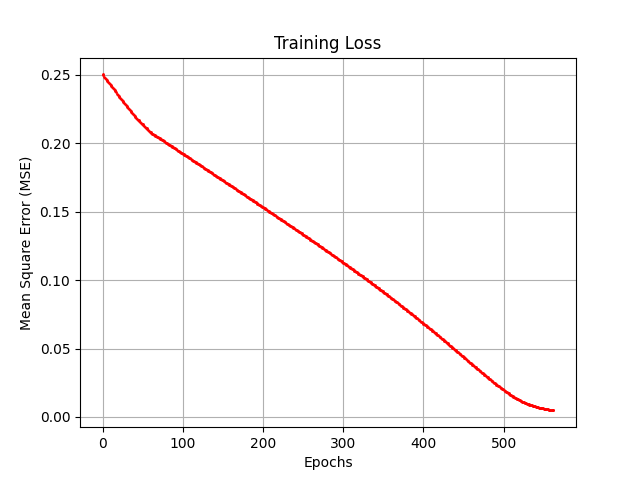
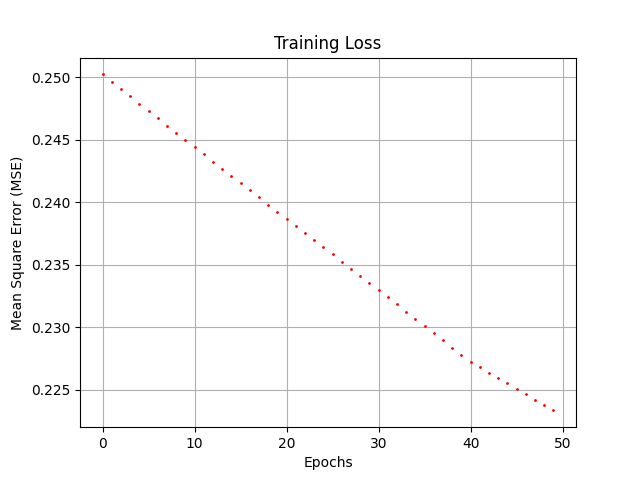
Minor

diff --git a/utils/dataset_functions.py b/utils/dataset_functions.py
@@ -150,51 +150,62 @@ def generate_rules_dataset_breast_cancer(X_train):
 
     # Create rules
     rules_ct_1std      = bc.generate_rule_ct(ct_mean, ct_std)
-    rules_ct_2std      = bc.generate_rule_ct(ct_mean, 2*ct_std)
-    rules_ct_3std      = bc.generate_rule_ct(ct_mean, 3*ct_std)
+    #rules_ct_2std      = bc.generate_rule_ct(ct_mean, 2*ct_std)
+    #rules_ct_3std      = bc.generate_rule_ct(ct_mean, 3*ct_std)
 
     rules_ucsize_1std  = bc.generate_rule_ucsize(ucsize_mean, ucsize_std)
-    rules_ucsize_2std  = bc.generate_rule_ucsize(ucsize_mean, 2*ucsize_std)
-    rules_ucsize_3std  = bc.generate_rule_ucsize(ucsize_mean, 3*ucsize_std)
+    #rules_ucsize_2std  = bc.generate_rule_ucsize(ucsize_mean, 2*ucsize_std)
+    #rules_ucsize_3std  = bc.generate_rule_ucsize(ucsize_mean, 3*ucsize_std)
 
     rules_ucshape_1std = bc.generate_rule_ucshape(ucshape_mean, ucshape_std)
-    rules_ucshape_2std = bc.generate_rule_ucshape(ucshape_mean, 2*ucshape_std)
-    rules_ucshape_3std = bc.generate_rule_ucshape(ucshape_mean, 3*ucshape_std)
+    #rules_ucshape_2std = bc.generate_rule_ucshape(ucshape_mean, 2*ucshape_std)
+    #rules_ucshape_3std = bc.generate_rule_ucshape(ucshape_mean, 3*ucshape_std)
 
     rules_ma_1std      = bc.generate_rule_ma(ma_mean, ma_std)
-    rules_ma_2std      = bc.generate_rule_ma(ma_mean, 2*ma_std)
-    rules_ma_3std      = bc.generate_rule_ma(ma_mean, 3*ma_std)
+    #rules_ma_2std      = bc.generate_rule_ma(ma_mean, 2*ma_std)
+    #rules_ma_3std      = bc.generate_rule_ma(ma_mean, 3*ma_std)
 
     rules_secz_1std    = bc.generate_rule_secz(secz_mean, secz_std)
-    rules_secz_2std    = bc.generate_rule_secz(secz_mean, 2*secz_std)
-    rules_secz_3std    = bc.generate_rule_secz(secz_mean, 3*secz_std)
+    #rules_secz_2std    = bc.generate_rule_secz(secz_mean, 2*secz_std)
+    #rules_secz_3std    = bc.generate_rule_secz(secz_mean, 3*secz_std)
 
     rules_bn_1std      = bc.generate_rule_bn(bn_mean, bn_std)
-    rules_bn_2std      = bc.generate_rule_bn(bn_mean, 2*bn_std)
-    rules_bn_3std      = bc.generate_rule_bn(bn_mean, 3*bn_std)
+    #rules_bn_2std      = bc.generate_rule_bn(bn_mean, 2*bn_std)
+    #rules_bn_3std      = bc.generate_rule_bn(bn_mean, 3*bn_std)
 
     rules_bc_1std      = bc.generate_rule_bc(bc_mean, bc_std)
-    rules_bc_2std      = bc.generate_rule_bc(bc_mean, 2*bc_std)
-    rules_bc_3std      = bc.generate_rule_bc(bc_mean, 3*bc_std)
+    #rules_bc_2std      = bc.generate_rule_bc(bc_mean, 2*bc_std)
+    #rules_bc_3std      = bc.generate_rule_bc(bc_mean, 3*bc_std)
 
     rules_nn_1std      = bc.generate_rule_nn(nn_mean, nn_std)
-    rules_nn_2std      = bc.generate_rule_nn(nn_mean, 2*nn_std)
-    rules_nn_3std      = bc.generate_rule_nn(nn_mean, 3*nn_std)
+    #rules_nn_2std      = bc.generate_rule_nn(nn_mean, 2*nn_std)
+    #rules_nn_3std      = bc.generate_rule_nn(nn_mean, 3*nn_std)
 
     rules_m_1std       = bc.generate_rule_m(m_mean, m_std)
-    rules_m_2std       = bc.generate_rule_m(m_mean, 2*m_std)
-    rules_m_3std       = bc.generate_rule_m(m_mean, 3*m_std)
+    #rules_m_2std       = bc.generate_rule_m(m_mean, 2*m_std)
+    #rules_m_3std       = bc.generate_rule_m(m_mean, 3*m_std)
+
+    # s_list = []
+    # s_list += rules_ct_1std + rules_ct_2std + rules_ct_3std 
+    # s_list += rules_ucsize_1std + rules_ucsize_2std + rules_ucsize_3std
+    # s_list += rules_ucshape_1std + rules_ucshape_2std + rules_ucshape_3std 
+    # s_list += rules_ma_1std + rules_ma_2std + rules_ma_3std 
+    # s_list += rules_secz_1std + rules_secz_2std + rules_secz_3std  
+    # s_list += rules_bn_1std + rules_bn_2std + rules_bn_3std 
+    # s_list += rules_bc_1std + rules_bc_2std + rules_bc_3std  
+    # s_list += rules_nn_1std + rules_nn_2std + rules_nn_3std 
+    # s_list += rules_m_1std + rules_m_2std + rules_m_3std
 
     s_list = []
-    s_list += rules_ct_1std + rules_ct_2std + rules_ct_3std 
-    s_list += rules_ucsize_1std + rules_ucsize_2std + rules_ucsize_3std
-    s_list += rules_ucshape_1std + rules_ucshape_2std + rules_ucshape_3std 
-    s_list += rules_ma_1std + rules_ma_2std + rules_ma_3std 
-    s_list += rules_secz_1std + rules_secz_2std + rules_secz_3std  
-    s_list += rules_bn_1std + rules_bn_2std + rules_bn_3std 
-    s_list += rules_bc_1std + rules_bc_2std + rules_bc_3std  
-    s_list += rules_nn_1std + rules_nn_2std + rules_nn_3std 
-    s_list += rules_m_1std + rules_m_2std + rules_m_3std
+    s_list += rules_ct_1std 
+    s_list += rules_ucsize_1std 
+    s_list += rules_ucshape_1std 
+    s_list += rules_ma_1std 
+    s_list += rules_secz_1std 
+    s_list += rules_bn_1std 
+    s_list += rules_bc_1std  
+    s_list += rules_nn_1std 
+    s_list += rules_m_1std
 
     rule_set = bc.start_weights(s_list)
 

diff --git a/utils/config.py b/utils/config.py
@@ -9,6 +9,7 @@ CLASS_          = "class"
 BREAK_IT        = "Breaking at {} iteration"
 EPSILON         = 0.0001
 NUM_CLASSES     = 2 
+NUM_EPOCHS      = 50
 
 #--- A1 Dataset ---
 NUM_ELEMENTS      = 500
@@ -54,13 +55,14 @@ X_AXIS       = "Epochs"
 
 # Variables
 DTYPE = torch.float
-DEVICE = torch.device("cuda" if torch.cuda.is_available() else "cpu")
+#DEVICE = torch.device("cuda" if torch.cuda.is_available() else "cpu")
+DEVICE = torch.device("cpu")
 EMPTY_SET    = set()
-#COMPLETE_SET = frozenset({'R','B'})
-#POWERSET = get_powerset({'R'}.union({'B'}))
+COMPLETE_SET = frozenset({'R','B'})
+POWERSET = get_powerset({'R'}.union({'B'}))
 
-COMPLETE_SET = frozenset({'B','M'})
-POWERSET = get_powerset({'B'}.union({'M'}))
+#COMPLETE_SET = frozenset({'B','M'})
+#POWERSET = get_powerset({'B'}.union({'M'}))
 
 # Table
 NUM_FORMAT = '{:.3f}'

diff --git a/src/main.py b/src/main.py
@@ -92,6 +92,6 @@ def evaluate_breast_cancer_dataset(dataset_name):
     draw_loss(it_loss, graph_filepath)
 
 if __name__ == "__main__":
-    #evaluate_A1_dataset("A1_Dataset")
-    evaluate_breast_cancer_dataset("BC_Dataset")
+    evaluate_A1_dataset("A1_Dataset")
+    #evaluate_breast_cancer_dataset("BC_Dataset")
     

diff --git a/src/model.py b/src/model.py
@@ -118,7 +118,7 @@ def training(X, Y, rule_set, loss, dataset_name):
     it_loss = []
     previous_loss = sys.maxsize
 
-    for i in range(50):
+    for i in range(NUM_EPOCHS):
         # Model predictions
         y_hat_list = model_predict_train_test(X, rule_set, dataset_name)
 

diff --git a/README.md b/README.md
@@ -20,7 +20,7 @@ bash test.sh
 - [x] MAF in train
 - [x] Projected Gradient Descent (Adam)
 - [ ] Use Pytorch loss function
-- [ ] Generate rules
+- [x] Generate rules
 - [ ] Generalize lambda functions
 - [ ] Generalize model for datasets
 
@@ -35,5 +35,3 @@ Using dataset or two points has the same tendency
 Projected masses can be assessed but do not translate into better results (alterantivas para projecao de massas)
 
 Using article generated rules gives good results for mass and uncertainty belief
-
-Criticize 98% of article for A1 dataset
